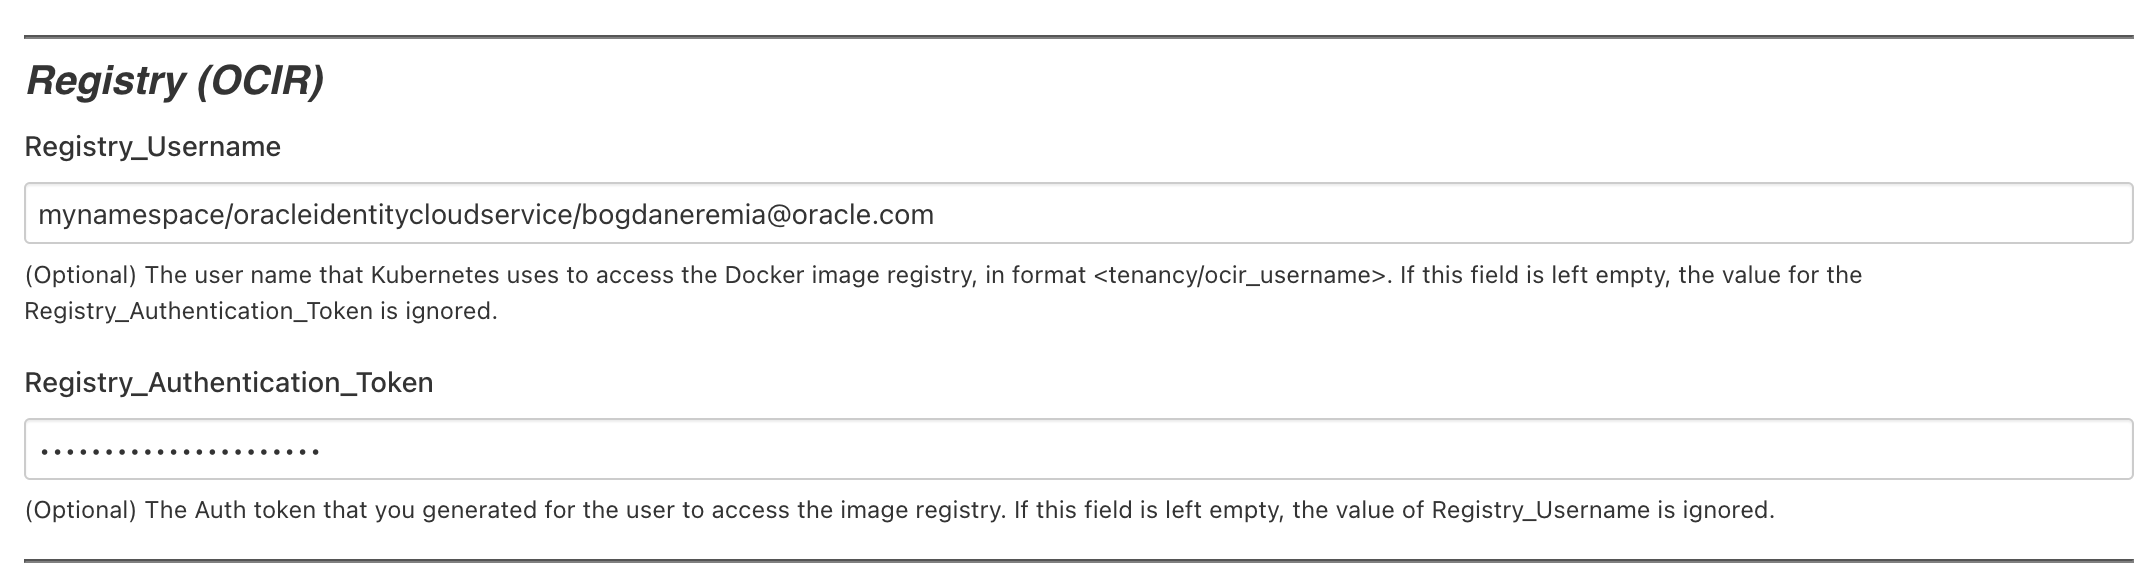
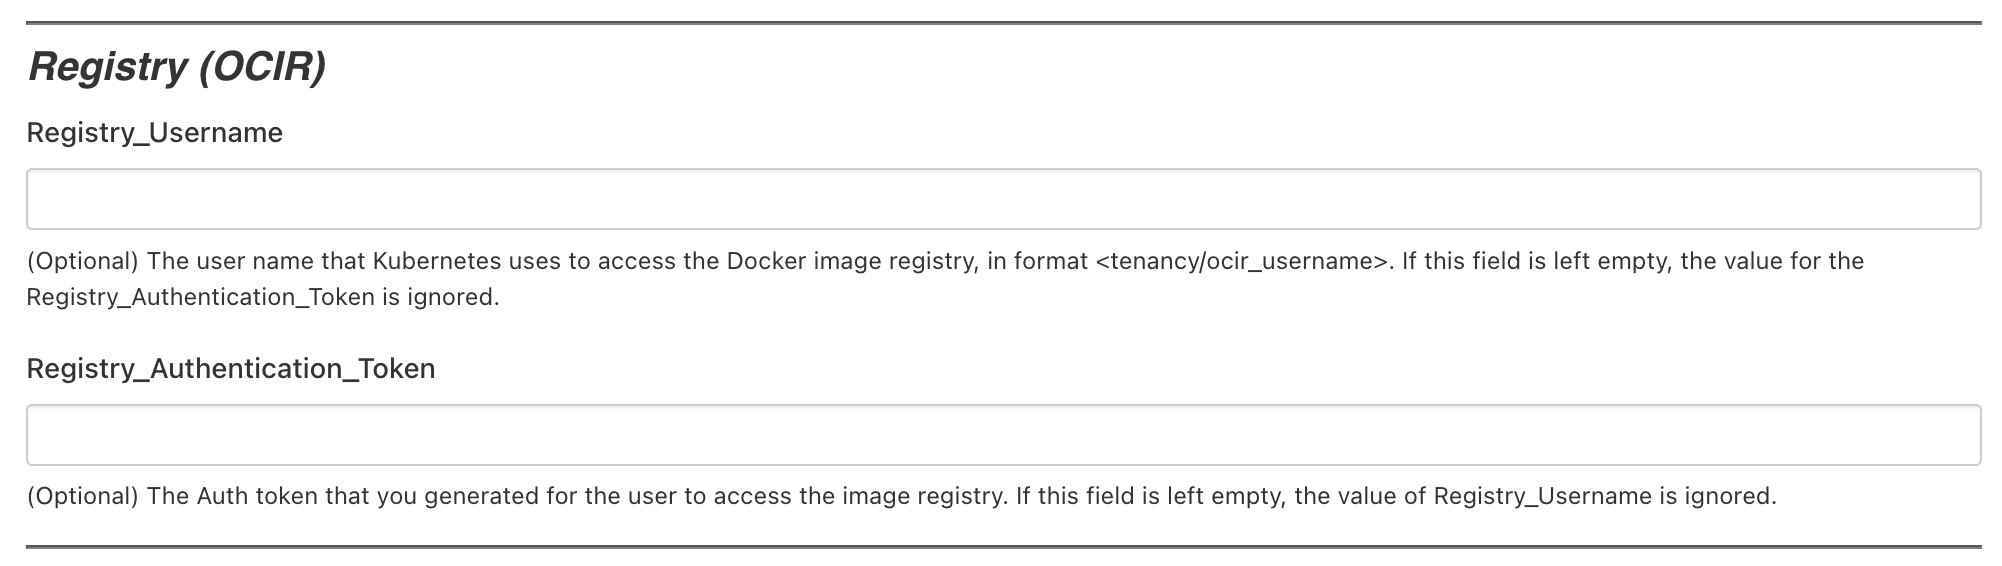
Include patch for LB in trial limit

diff --git a/AppDev/wls/ll-wls-for-oke-nonjrf/wlsforocionokepart3.md b/AppDev/wls/ll-wls-for-oke-nonjrf/wlsforocionokepart3.md
@@ -10,11 +10,9 @@ This chapter will go through the process of creating a WebLogic domain using the
 
 
 
-## Step 1. Access the Jenkins Console to start the WLS domain
+## Step 1. Setup access to the environment
 
-To access the Jenkins Console we need first  to connect to the Bastion Host and create a SSH tunnel at the same time. We cannot use the Cloud Shell for this part.
-
-
+To access the Jenkins Console and the Admin server we need first  to connect to the Bastion Host and create a SSH tunnel at the same time. 
 
 If you used Cloud Shell for creating the SSH private and public key pair, you'd need to copy it to local machine. In the Cloud Shell Console, go to `keys` folder and print the private key:
 
@@ -119,6 +117,73 @@ On Windows:
 
 Now all the local machine network traffic proxy-ed through 1088 port will be tunneled through the SSH connection to the bastion host.
 
+
+
+## Step 1b. Apply a patch for Trial Environments
+
+**This step only applies when running in a Free Trial account**
+
+When running on a normal, Free trial Cloud environment, you will only have a single loadbalancer of the type *Flexible Shape* at your discposal.  But the creation wizard of the WebLogic Domain will assume you have a second one available ... so we need to apply a small patch to switch your public domain loadbalancer to the type *Fixed Shape 100 MB*,of which you have 3 available in your trial.
+
+To do this, we will be accessing the Admin host.  This can be done :
+
+- using Cloud Shell - easier if you have generated the WebLogic SSH keys on the Cloud Shell environment; if not, you'd need to copy the private key in advance
+- using local ssh client
+
+Either option, an easy way to connect directly to Admin host by jumping though the Bastion host is to use ssh `ProxyCommand` feature. The ssh command should look like this:
+
+```
+ssh -i <path_to_private_key> -o ProxyCommand="ssh -W %h:%p -i <path_to_private_key> opc@<bastion_public_ip>" opc@<admin_host_private_ip>
+```
+
+Example on Cloud Shell:
+
+![image-20201103162837302](images/wlsforocionoke/image-500.png)
+
+
+
+Example on Window PowerShell:
+
+![image-20201103163051480](images/wlsforocionoke/image-510.png)
+
+**Note:** on Windows, you'd need to provide the full `shh.exe` path in the `ProxyCommand` string.
+
+
+
+Lets now **apply the patch**:
+
+- download the patch script by executing the below command :
+
+  ```
+  wget https://objectstorage.us-ashburn-1.oraclecloud.com/n/ocloud200/b/tutorial/o/apply_fixed_lb_100mb_no_limits_check.sh
+  ```
+
+- Make the script executable : 
+
+  ```
+  chmod +x apply_fixed_lb_100mb_no_limits_check.sh
+  ```
+
+- Execute the script :
+
+  ```
+  ./apply_fixed_lb_100mb_no_limits_check.sh
+  ```
+
+Do you want to understand what the patch has done ?
+
+- We canceled a pre-check that validated the availability of the Flexible Loadbalancers in the pipeline script `/u01/shared/scripts/pipeline/create_domain/scripts/precheck_utils.py`
+  The function `check_lb_quota` now always returns 0, indicating a successful check
+- We changed the template of the loadbalancer to use a different type of loadbalancer : in the file `/u01/shared/scripts/pipeline/create_domain/ingress-controller/templates/_nginx-load-balancer.tpl` we replaced the definition of the loadbalancer type from `flexible` to `100Mbps` 
+
+
+
+
+
+## Step 2. Connecting to the Jenkins console 
+
+
+
 Open **Firefox** browser, go to  *Options*, scroll down to *Network Settings* and configure a Proxy to access Internet. Setup a *Manual proxy configuration*, use *localhost* for **SOCKS Host** and *1088* port for **SOCKS Port**. Leave HTTP Proxy and FTP Proxy untouched:
 
 ![](images/wlsforocionoke/image-420.png) 
@@ -189,20 +254,10 @@ Fill in information for **WebLogic Server on Container Cluster** section:
 
 ![](images/wlsforocionoke/image-472.png)
 
-Fill in information for **Registry (OCIR)** section:
+For the **Registry (OCIR)** section:
 
-- **Registry_Username** : this is the same name you specified previously but ...
-   **!!! ATTENTION!!! ** : now prefixed with the **tenancy namespace**
-
-  - To obtain the namespace of your tenancy, navigate to the *Developer Services*, then select *Container Registry* :
-
-    ![](images/wlsforocionoke/image-490.png)
-
-  - If you are using a **Single Sign-on** user via the Oracle Identity cloud service, your name will look like : `mynamespace/oracleidentitycloudservice/bogdaneremia@oracle.com`
-
-  - If you are using a **Direct Sign-in** user, this will be for example `mynamespace/janleemans`
-
-- **Registry_Authentication_Token** : this is the token you created in the prerequisite steps of this lab, a string looking somwhat like this example : VclaI2QlT{5"3"mli94AB<
+- **Registry_Username** : leave this field blank, the script will use the value you already provided during stack creation
+- **Registry_Authentication_Token** : leave this field blank, the script will use the value you already provided during stack creation
 
 ![](images/wlsforocionoke/image-491.png)
 
@@ -213,7 +268,7 @@ Fill in information for **Container Cluster (OKE) Configuration** section:
 - **WebLogic_Node_Pool_Type** : select the **Create_Node_Pool** option
 - **Node_Count** : fill in **2**
 - **WebLogic_Node_Pool_Shape** : leave the default
-- **SSH_Public_Key** : paste the SSH public key as you did before (starts with the string ssh-rsa...)
+- **SSH_Public_Key** : leave blank, the same key provided in the stack creation will be used
 - **NodePool_Subnet_ID** : leave blank
 - **Existing_Node_Pool** : leave blank
 
@@ -244,7 +299,7 @@ While the provisioning is proceeding, you can continue to the next step, and see
 
 
 
-## Step 2. Check what resources have been provisioned
+## Step 3. Check what resources have been provisioned
 
 To better understand all components of a WebLogic for OKE on OCI solution keep as a reference this architecture diagram:
 
@@ -308,7 +363,7 @@ We can see:
 
 
 
-## Step 3. Access WebLogic Admin Console
+## Step 4. Access WebLogic Admin Console
 
 To access the WebLogic Admin Console we also need to use the tunnel we set up previously.  
 
@@ -328,67 +383,6 @@ Navigate to *Environments* > *Servers* to check for the running Managed Servers.
 ![](images/wlsforocionoke/image-440.png)
 
 
-
-## Step 5. Access Admin host
-
-There are cases when we would need to access the Admin host, for example to change the existing Jenkins Pipelines script files, add new ones to the shared file system or, as we'll see in the last lab of the workshop, to clean up some resources before tearing town the WebLogic for OKE Infrastructure.
-
-Accessing the Admin host can be done:
-
-- using Cloud Shell - easier if you have generated the WebLogic SSH keys on the Cloud Shell environment; if not, you'd need to copy the private key in advance
-- using local ssh client
-
-Either option, an easy way to connect directly to Admin host by jumping though the Bastion host is to use ssh `ProxyCommand` feature. The ssh command should look like this:
-
-```
-ssh -i <path_to_private_key> -o ProxyCommand="ssh -W %h:%p -i <path_to_private_key> opc@<bastion_public_ip>" opc@<admin_host_private_ip>
-```
-
-
-
-Example on Cloud Shell:
-
-![image-20201103162837302](images/wlsforocionoke/image-500.png)
-
-
-
-Example on Window PowerShell:
-
-![image-20201103163051480](images/wlsforocionoke/image-510.png)
-
-**Note:** on Windows, you'd need to provide the full `shh.exe` path in the `ProxyCommand` string.
-
-
-
-Once logged in, you can inspect `/u01/shared` shared folder, for example checking the Jenkins Pipelines script files:
-
-![image-20201103163708746](images/wlsforocionoke/image-520.png)
-
-
-
-On the admin host you can also access the Kubernetes cluster with the **kubectl** command : 
-
-```
-$ kubectl get nodes
-```
-
-It will display Kubernetes nodes corresponding to both Node Pools (the four Compute Instances we have seen above):
-
-![](images/wlsforocionoke/image-310.png)
-
-Run now:
-
-```
-$ kubectl get pods --all-namespaces
-```
-
-It will display all running Pods across all namespaces:
-
-![](images/wlsforocionoke/image-320.png)
-
-
-
-At the end of the list we identity a Pod running WLS Admin Server, two Pods running Managed Servers and one Pod running WebLogic Operator.
 
 
 

diff --git a/AppDev/wls/ll-wls-for-oke-nonjrf/wlsforocionokeprereq-pre-oct21.md b/AppDev/wls/ll-wls-for-oke-nonjrf/wlsforocionokeprereq-pre-oct21.md
@@ -140,7 +140,7 @@ The new key should be listed as *Enabled*:
 
 
 
-### 2.5 Create an OCI Secret for the OCI user Authentication Token
+### 2.5 Create an OCI Secret for the WebLogic Admin password
 
 Go to *Secrets* submenu of the Vault Information page and create an new Secret:
 
@@ -148,25 +148,39 @@ Go to *Secrets* submenu of the Vault Information page and create an new Secret:
 
 
 
-Setup a name for the OCI Secret; choose previously created Encryption Key (**WLSKey**) in the *Encryption Key* dropdown. With default option for *Secret Type Template* (**Plain-Text**), you have to enter the Authentication Token you created and noted down in a previous step as-is (the plain-text) in the *Secret Contents* aria.
+Setup a name for the OCI Secret; choose previously created Encryption Key (**WLSKey**) in the *Encryption Key* dropdown. With default option for *Secret Type Template* (**Plain-Text**), you have to enter the WebLogic Admin password as-is (the plain-text) in the *Secret Contents* aria. If you switch to **Base64** secret type template, you need to provide the WebLogic Admin password pre-encoded in base64.
 
 
 
-![](images/wlsforocionokeprereq/image140-1.png)
+> The password must start with a letter, should be between 8 and 30 characters long, should contain at least one number, and, optionally, any number of the special characters ($ # _).
+
+
+
+![](images/wlsforocionokeprereq/image140.png)
 
 
 
 Shortly, the Secret should be listed as *Active*:
 
-![](images/wlsforocionokeprereq/image150-1.png)
+![](images/wlsforocionokeprereq/image150.png)
 
 
 
 Click on the Secret name and take note of its **OCID**. We need to provide this value in the WebLogic for OKE Stack configuration form:
 
-![](images/wlsforocionokeprereq/image160-1.png)
+![](images/wlsforocionokeprereq/image160.png)
 
 
+
+### 2.6 Create an OCI Secret for your OCI user Authentication Token
+
+In the same way as in previous step, create a new OCI secret for your OCI user Authentication Token. Instead of the WebLogic Admin password, pass the Auth Token value generated earlier.
+
+![](images/wlsforocionokeprereq/image170.png)
+
+
+
+Click on the new Secret name and take note of its **OCID**. We need to provide this value in the WebLogic for OKE Stack configuration form.
 
 
 
